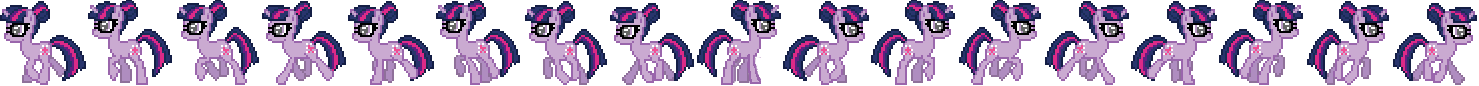
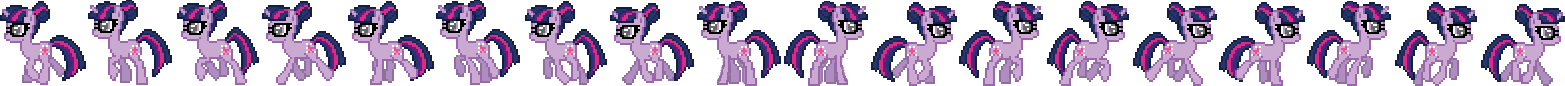
[add] saving look direction

diff --git a/resources/assets/js/Player.js b/resources/assets/js/Player.js
@@ -5,6 +5,8 @@ export default class Player extends Phaser.Sprite {
     constructor(game, x, y, id) {
 
         super(game, parseFloat(x), parseFloat(y), "player");
+
+        this.lookDirection = 'right';
         this.movingSpeed = 150;
         this.id = parseInt(id);
 
@@ -12,7 +14,7 @@ export default class Player extends Phaser.Sprite {
         game.physics.arcade.enable(this);
         this.body.collideWorldBounds = true;
         this.animations.add("left", _.range(8), 10, true);
-        this.animations.add("right", _.range(9, 18), 10, true);
+        this.animations.add("right", _.range(11, 19), 10, true);
 
     }
 
@@ -24,32 +26,32 @@ export default class Player extends Phaser.Sprite {
         if (cursors.left.isDown) {
 
             this.body.velocity.x = -this.movingSpeed;
-            this.animations.play("left");
+            this.lookDirection = 'left'
 
         } else if(cursors.right.isDown) {
 
             this.body.velocity.x = this.movingSpeed;
-            this.animations.play("right");
+            this.lookDirection = 'right'
 
         }
         if(cursors.up.isDown) {
 
             this.body.velocity.y = -this.movingSpeed;
-            if(!(cursors.left.isDown || cursors.right.isDown)) {
-                this.animations.play("right");
-            }
 
         } else if(cursors.down.isDown) {
 
             this.body.velocity.y = this.movingSpeed;
-            if(!(cursors.left.isDown || cursors.right.isDown)) {
-                this.animations.play("right");
-            }
 
         }
         if (!(cursors.left.isDown || cursors.right.isDown || cursors.up.isDown || cursors.down.isDown)) {
+
             this.animations.stop();
-            this.frame = 8;
+            this.frame = this.lookDirection === 'right' ? 9 : 8;
+
+        } else {
+
+            this.animations.play(this.lookDirection);
+
         }
 
         return {x: this.body.x, y: this.body.y};
